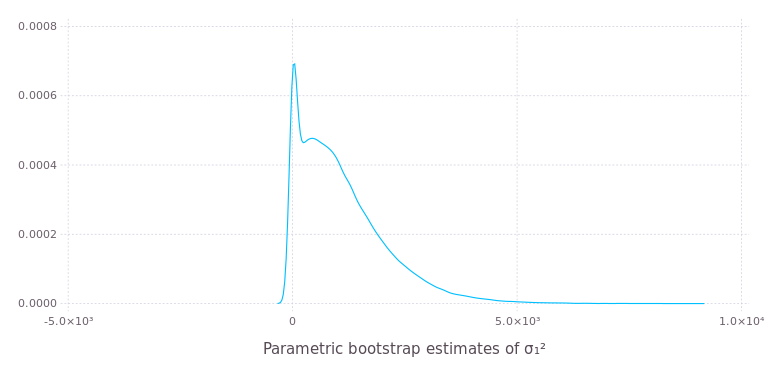
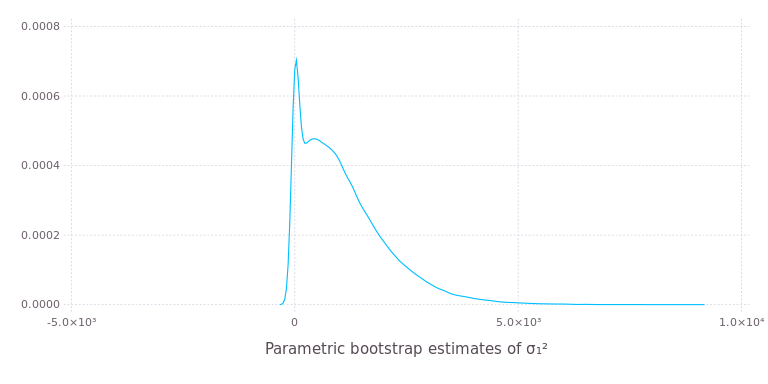
Update docs

diff --git a/docs/src/man/fitting.md b/docs/src/man/fitting.md
@@ -95,7 +95,7 @@ In general the model should be fit through an explicit call to the `fit!`
 function, which may take a second argument indicating a verbose fit.
 
 ```julia
-julia> fit!(lmm(Yield ~ 1 + (1 | Batch), ds), true);
+julia> fit!(lmm(@formula(Yield ~ 1 + (1 | Batch)), ds), true);
 f_1: 327.76702, [1.0]
 f_2: 331.03619, [1.75]
 f_3: 330.64583, [0.25]
@@ -114,18 +114,17 @@ f_15: 327.32706, [0.752584]
 f_16: 327.32706, [0.752509]
 f_17: 327.32706, [0.752591]
 f_18: 327.32706, [0.752581]
-FTOL_REACHED
 ```
 
 The numeric representation of the model has type
 ```julia
-julia> typeof(fit!(lmm(Yield ~ 1 + (1 | Batch), ds)))
+julia> typeof(fit!(lmm(@formula(Yield ~ 1 + (1 | Batch)), ds)))
 MixedModels.LinearMixedModel{Float64}
 ```
 Those familiar with the `lme4` package for `R` will see the usual
 suspects.
 ```julia
-julia> m = fit!(lmm(Yield ~ 1 + (1 | Batch), ds));
+julia> m = fit!(lmm(@formula(Yield ~ 1 + (1 | Batch)), ds));
 
 julia> fixef(m)  # estimates of the fixed-effects parameters
 1-element Array{Float64,1}:
@@ -137,13 +136,11 @@ julia> coef(m)  # another name for fixef
 
 julia> ranef(m)
 1-element Array{Array{Float64,2},1}:
- 1×6 Array{Float64,2}:
- -16.6282  0.369516  26.9747  -21.8014  53.5798  -42.4943
+ [-16.6282 0.369516 … 53.5798 -42.4943]
 
-julia> ranef(m, true)  # on the u scale
+julia> ranef(m, uscale = true)  # on the u scale
 1-element Array{Array{Float64,2},1}:
- 1×6 Array{Float64,2}:
- -22.0949  0.490999  35.8429  -28.9689  71.1948  -56.4648
+ [-22.0949 0.490999 … 71.1948 -56.4648]
 
 julia> deviance(m)
 327.3270598811394
@@ -163,7 +160,7 @@ data in the `lme4` package is more of a challenge in that there are
 nearly 75,000 evaluations by 2972 students on a total of 1128
 instructors.
 
-```
+```julia
 julia> head(inst)
 6x7 DataFrames.DataFrame
 │ Row │ s   │ d      │ studage │ lectage │ service │ dept │ y │
@@ -175,47 +172,49 @@ julia> head(inst)
 │ 5   │ "2" │ "115"  │ "2"     │ "1"     │ "0"     │ "5"  │ 2 │
 │ 6   │ "2" │ "756"  │ "2"     │ "1"     │ "0"     │ "5"  │ 4 │
 
-julia> m2 = fit!(lmm(y ~ 1 + dept*service + (1|s) + (1|d), inst))
+julia> m2 = fit!(lmm(@formula(y ~ 1 + dept*service + (1|s) + (1|d)), inst))
 Linear mixed model fit by maximum likelihood
- logLik: -118792.776708, deviance: 237585.553415, AIC: 237647.553415, BIC: 237932.876339
+ Formula: y ~ 1 + dept * service + (1 | s) + (1 | d)
+     logLik        -2 logLik          AIC             BIC
+ -1.18792777×10⁵  2.37585553×10⁵  2.37647553×10⁵  2.37932876×10⁵
 
 Variance components:
-            Variance   Std.Dev.
- s        0.105417971 0.32468134
- d        0.258416394 0.50834673
- Residual 1.384727771 1.17674456
+              Column    Variance   Std.Dev.
+ s        (Intercept)  0.10541792 0.32468126
+ d        (Intercept)  0.25841626 0.50834659
+ Residual              1.38472780 1.17674458
  Number of obs: 73421; levels of grouping factors: 2972, 1128
 
   Fixed-effects parameters:
-                           Estimate Std.Error   z value
-(Intercept)                 3.22961  0.064053   50.4209
-dept - 5                   0.129536  0.101294   1.27882
-dept - 10                 -0.176751 0.0881352  -2.00545
-dept - 12                 0.0517102 0.0817524  0.632522
-dept - 6                  0.0347319  0.085621  0.405647
-dept - 7                    0.14594 0.0997984   1.46235
-dept - 4                   0.151689 0.0816897   1.85689
-dept - 8                   0.104206  0.118751  0.877517
-dept - 9                  0.0440401 0.0962985  0.457329
-dept - 14                 0.0517546 0.0986029  0.524879
-dept - 1                  0.0466719  0.101942  0.457828
-dept - 3                  0.0563461 0.0977925   0.57618
-dept - 11                 0.0596536  0.100233   0.59515
-dept - 2                 0.00556281  0.110867 0.0501757
-service - 1                0.252025 0.0686507   3.67112
-dept - 5 & service - 1    -0.180757  0.123179  -1.46744
-dept - 10 & service - 1   0.0186492  0.110017  0.169512
-dept - 12 & service - 1   -0.282269 0.0792937  -3.55979
-dept - 6 & service - 1    -0.494464 0.0790278  -6.25683
-dept - 7 & service - 1    -0.392054  0.110313  -3.55403
-dept - 4 & service - 1    -0.278547 0.0823727  -3.38154
-dept - 8 & service - 1    -0.189526  0.111449  -1.70056
-dept - 9 & service - 1    -0.499868 0.0885423  -5.64553
-dept - 14 & service - 1   -0.497162 0.0917162  -5.42065
-dept - 1 & service - 1     -0.24042 0.0982071   -2.4481
-dept - 3 & service - 1    -0.223013 0.0890548  -2.50422
-dept - 11 & service - 1   -0.516997 0.0809077  -6.38997
-dept - 2 & service - 1    -0.384773  0.091843  -4.18946
+                         Estimate Std.Error   z value P(>|z|)
+(Intercept)               3.22961  0.064053   50.4209  <1e-99
+dept: 5                  0.129536  0.101294   1.27882  0.2010
+dept: 10                -0.176751 0.0881352  -2.00545  0.0449
+dept: 12                0.0517102 0.0817523  0.632523  0.5270
+dept: 6                 0.0347319 0.0856209  0.405647  0.6850
+dept: 7                   0.14594 0.0997984   1.46235  0.1436
+dept: 4                  0.151689 0.0816897   1.85689  0.0633
+dept: 8                  0.104206  0.118751  0.877517  0.3802
+dept: 9                 0.0440401 0.0962984   0.45733  0.6474
+dept: 14                0.0517546 0.0986029  0.524879  0.5997
+dept: 1                 0.0466719  0.101942  0.457828  0.6471
+dept: 3                 0.0563461 0.0977925   0.57618  0.5645
+dept: 11                0.0596536  0.100233  0.595151  0.5517
+dept: 2                0.00556283  0.110867 0.0501759  0.9600
+service: 1               0.252025 0.0686507   3.67112  0.0002
+dept: 5 & service: 1    -0.180757  0.123179  -1.46744  0.1423
+dept: 10 & service: 1   0.0186492  0.110017  0.169512  0.8654
+dept: 12 & service: 1   -0.282269 0.0792937   -3.5598  0.0004
+dept: 6 & service: 1    -0.494464 0.0790278  -6.25684   <1e-9
+dept: 7 & service: 1    -0.392054  0.110313  -3.55403  0.0004
+dept: 4 & service: 1    -0.278547 0.0823727  -3.38154  0.0007
+dept: 8 & service: 1    -0.189526  0.111449  -1.70056  0.0890
+dept: 9 & service: 1    -0.499868 0.0885423  -5.64553   <1e-7
+dept: 14 & service: 1   -0.497162 0.0917162  -5.42065   <1e-7
+dept: 1 & service: 1     -0.24042 0.0982071   -2.4481  0.0144
+dept: 3 & service: 1    -0.223013 0.0890548  -2.50422  0.0123
+dept: 11 & service: 1   -0.516997 0.0809077  -6.38997   <1e-9
+dept: 2 & service: 1    -0.384773  0.091843  -4.18946   <1e-4
 ```
 
 Models with vector-valued random effects can be fit
@@ -243,17 +242,17 @@ julia> slp
 │ 179 │ 369.142  │ 8    │ 18      │
 │ 180 │ 364.124  │ 9    │ 18      │
 
-julia> fm3 = fit!(lmm(Reaction ~ 1 + Days + (1+Days|Subject), slp))
+julia> fm3 = fit!(lmm(@formula(Reaction ~ 1 + Days + (1+Days|Subject)), slp))
 Linear mixed model fit by maximum likelihood
  Formula: Reaction ~ 1 + Days + ((1 + Days) | Subject)
-  logLik    -2 logLik     AIC        BIC
+   logLik   -2 logLik     AIC        BIC
  -875.96967 1751.93934 1763.93934 1783.09709
 
 Variance components:
               Column    Variance  Std.Dev.   Corr.
- Subject  (Intercept)  565.51066 23.780468
+ Subject  (Intercept)  565.51067 23.780468
           Days          32.68212  5.716828  0.08
- Residual Days         654.94145 25.591824
+ Residual              654.94145 25.591824
  Number of obs: 180; levels of grouping factors: 18
 
   Fixed-effects parameters:

diff --git a/docs/src/man/bootstrap.md b/docs/src/man/bootstrap.md
@@ -22,69 +22,80 @@ parameter, `θ`, that defines the variance-covariance matrices of the random eff
 For example, a simple linear mixed-effects model for the `Dyestuff` data in the [`lme4`](http://github.com/lme4/lme4)
 package for [`R`](https://www.r-project.org) is fit by
 ````julia
-julia> using DataFrames, Gadfly, MixedModels
-````
+julia> using DataFrames, Gadfly, MixedModels, RData
 
-
-
-
-
-
-````julia
-julia> show(ds)   # Dyestuff data set30×2 DataFrames.DataFrame
-│ Row │ Yield  │ Batch │
-├─────┼────────┼───────┤
-│ 1   │ 1545.0 │ 'A'   │
-│ 2   │ 1440.0 │ 'A'   │
-│ 3   │ 1440.0 │ 'A'   │
-│ 4   │ 1520.0 │ 'A'   │
-│ 5   │ 1580.0 │ 'A'   │
-│ 6   │ 1540.0 │ 'B'   │
-│ 7   │ 1555.0 │ 'B'   │
-│ 8   │ 1490.0 │ 'B'   │
-│ 9   │ 1560.0 │ 'B'   │
-│ 10  │ 1495.0 │ 'B'   │
-│ 11  │ 1595.0 │ 'C'   │
-│ 12  │ 1550.0 │ 'C'   │
-│ 13  │ 1605.0 │ 'C'   │
-│ 14  │ 1510.0 │ 'C'   │
-│ 15  │ 1560.0 │ 'C'   │
-│ 16  │ 1445.0 │ 'D'   │
-│ 17  │ 1440.0 │ 'D'   │
-│ 18  │ 1595.0 │ 'D'   │
-│ 19  │ 1465.0 │ 'D'   │
-│ 20  │ 1545.0 │ 'D'   │
-│ 21  │ 1595.0 │ 'E'   │
-│ 22  │ 1630.0 │ 'E'   │
-│ 23  │ 1515.0 │ 'E'   │
-│ 24  │ 1635.0 │ 'E'   │
-│ 25  │ 1625.0 │ 'E'   │
-│ 26  │ 1520.0 │ 'F'   │
-│ 27  │ 1455.0 │ 'F'   │
-│ 28  │ 1450.0 │ 'F'   │
-│ 29  │ 1480.0 │ 'F'   │
-│ 30  │ 1445.0 │ 'F'   │
 ````
 
 
 
 
 ````julia
-julia> m1 = fit!(lmm(Yield ~ 1 + (1 | Batch), ds))  
+julia> show(dat[:Dyestuff])   # Dyestuff data set
+30×2 DataFrames.DataFrame
+│ Row │ G   │ Y      │
+├─────┼─────┼────────┤
+│ 1   │ "A" │ 1545.0 │
+│ 2   │ "A" │ 1440.0 │
+│ 3   │ "A" │ 1440.0 │
+│ 4   │ "A" │ 1520.0 │
+│ 5   │ "A" │ 1580.0 │
+│ 6   │ "B" │ 1540.0 │
+│ 7   │ "B" │ 1555.0 │
+│ 8   │ "B" │ 1490.0 │
+⋮
+│ 22  │ "E" │ 1630.0 │
+│ 23  │ "E" │ 1515.0 │
+│ 24  │ "E" │ 1635.0 │
+│ 25  │ "E" │ 1625.0 │
+│ 26  │ "F" │ 1520.0 │
+│ 27  │ "F" │ 1455.0 │
+│ 28  │ "F" │ 1450.0 │
+│ 29  │ "F" │ 1480.0 │
+│ 30  │ "F" │ 1445.0 │
+````
+
+
+
+````julia
+julia> ds = names!(dat[:Dyestuff], [:Batch, :Yield])
+30×2 DataFrames.DataFrame
+│ Row │ Batch │ Yield  │
+├─────┼───────┼────────┤
+│ 1   │ "A"   │ 1545.0 │
+│ 2   │ "A"   │ 1440.0 │
+│ 3   │ "A"   │ 1440.0 │
+│ 4   │ "A"   │ 1520.0 │
+│ 5   │ "A"   │ 1580.0 │
+│ 6   │ "B"   │ 1540.0 │
+│ 7   │ "B"   │ 1555.0 │
+│ 8   │ "B"   │ 1490.0 │
+⋮
+│ 22  │ "E"   │ 1630.0 │
+│ 23  │ "E"   │ 1515.0 │
+│ 24  │ "E"   │ 1635.0 │
+│ 25  │ "E"   │ 1625.0 │
+│ 26  │ "F"   │ 1520.0 │
+│ 27  │ "F"   │ 1455.0 │
+│ 28  │ "F"   │ 1450.0 │
+│ 29  │ "F"   │ 1480.0 │
+│ 30  │ "F"   │ 1445.0 │
+
+julia> m1 = fit!(lmm(@formula(Yield ~ 1 + (1 | Batch)), ds))
 Linear mixed model fit by maximum likelihood
  Formula: Yield ~ 1 + (1 | Batch)
-  logLik    -2 logLik     AIC        BIC    
+   logLik   -2 logLik     AIC        BIC    
  -163.66353  327.32706  333.32706  337.53065
 
 Variance components:
               Column    Variance  Std.Dev. 
- Batch    (Intercept)  1388.3334 37.260346
+ Batch    (Intercept)  1388.3333 37.260345
  Residual              2451.2500 49.510100
  Number of obs: 30; levels of grouping factors: 6
 
   Fixed-effects parameters:
              Estimate Std.Error z value P(>|z|)
 (Intercept)    1527.5   17.6946  86.326  <1e-99
+
 
 ````
 
@@ -113,6 +124,7 @@ julia> function saveresults!(v, m)
     v[2] = abs2(getθ(m)[1]) * v[1]
 end
 saveresults! (generic function with 1 method)
+
 ````
 
 
@@ -127,17 +139,14 @@ As with any simulation-based method, it is advisable to set the random number se
 `bootstrap!` for reproducibility.
 ````julia
 julia> srand(1234321);
-MersenneTwister(Base.dSFMT.DSFMT_state(Int32[-1066020669,1073631810,397127531,1072701603,-312796895,1073626997,1020815149,1073320576,650048908,1073512247  …  -352178910,1073735534,1816227101,1072823316,-1468787611,-2121692099,358864500,-310934288,382,0]),[2.11393e-315,2.11394e-315,2.11394e-315,0.0,NaN,2.11399e-315,2.11332e-315,4.24399e-314,2.11278e-315,6.36599e-314  …  3.95253e-323,5.06417e-321,0.0,0.0,2.11329e-315,0.0,7.90505e-323,5.06911e-321,0.0,0.0],382,UInt32[0x0012d591])
-````
 
+````
 
 
 
 ````julia
 julia> results = bootstrap!(zeros(2, 100000), m1, saveresults!);
-2x100000 Array{Float64,2}:
- 4547.01   2302.38   2513.48   2832.77  2051.86   …  2721.9    3735.86  1617.55  2624.33   1473.15
-  204.834   653.688   473.595  1685.59   367.881      564.686     0.0   1324.83   287.775  1826.86
+
 ````
 
 
@@ -147,13 +156,12 @@ The results for each bootstrap replication are stored in the columns of the matr
 argument.  A density plot of the first row using the [`Gadfly`](https://github.com/dcjones/Gadfly.jl) package
 is created as
 ````julia
-plot(x = sub(results, 1, :), Geom.density(), Guide.xlabel("Parametric bootstrap estimates of σ²"))
+
+plot(x = view(results, 1, :), Geom.density(), Guide.xlabel("Parametric bootstrap estimates of σ²"))
 ````
 
 
-
 ![Density of parametric bootstrap estimates of σ² from model m1](figures/bootstrap_9_1.png)
-
 
 ![Density of parametric bootstrap estimates of σ₁² from model m1](figures/bootstrap_10_1.png)
 
